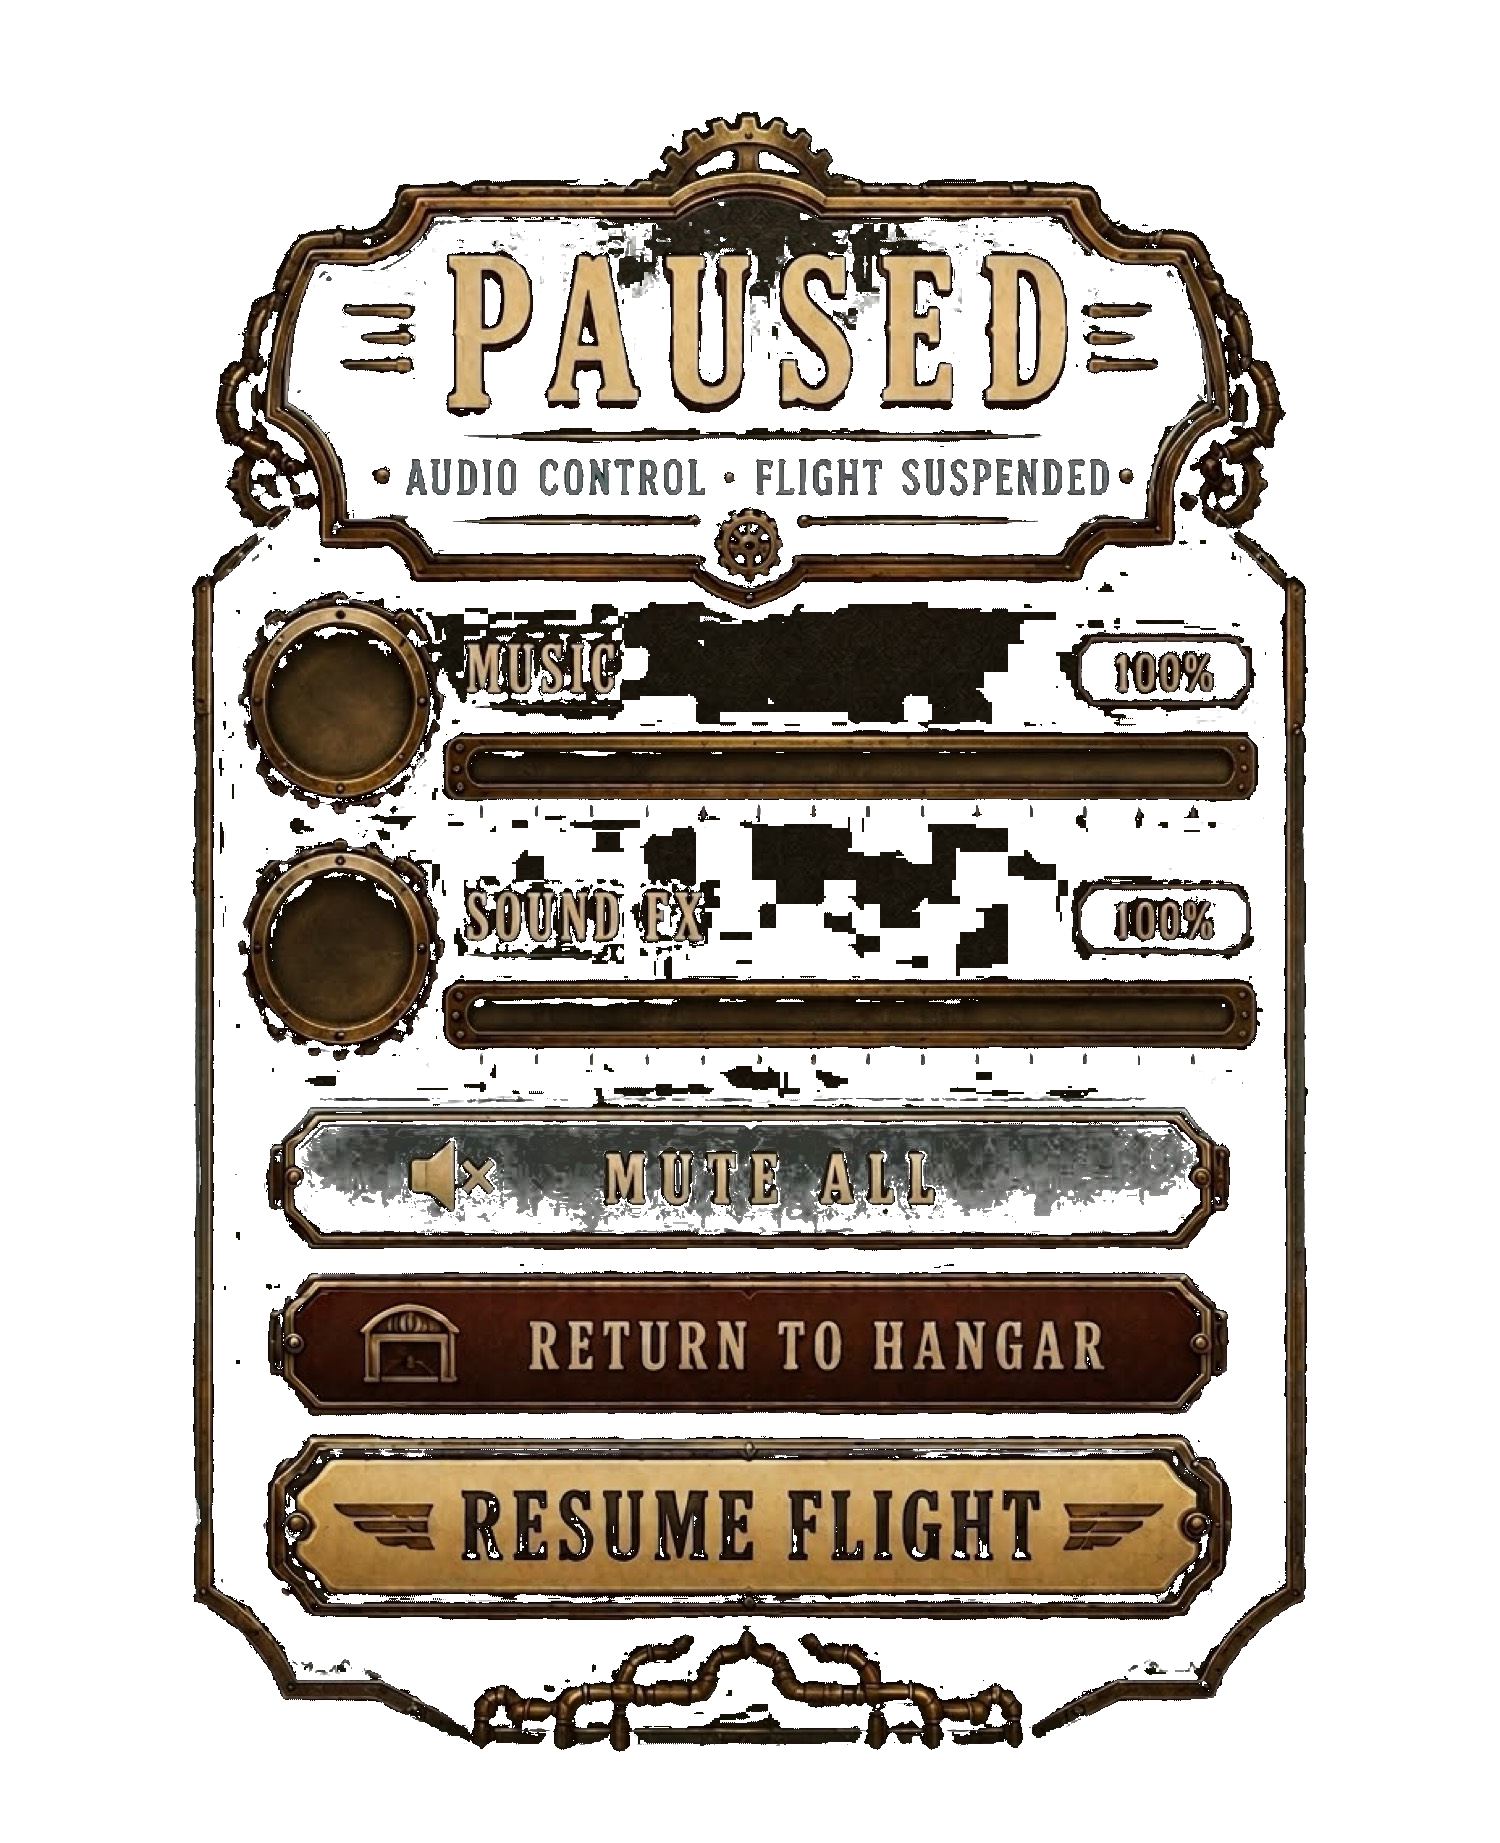
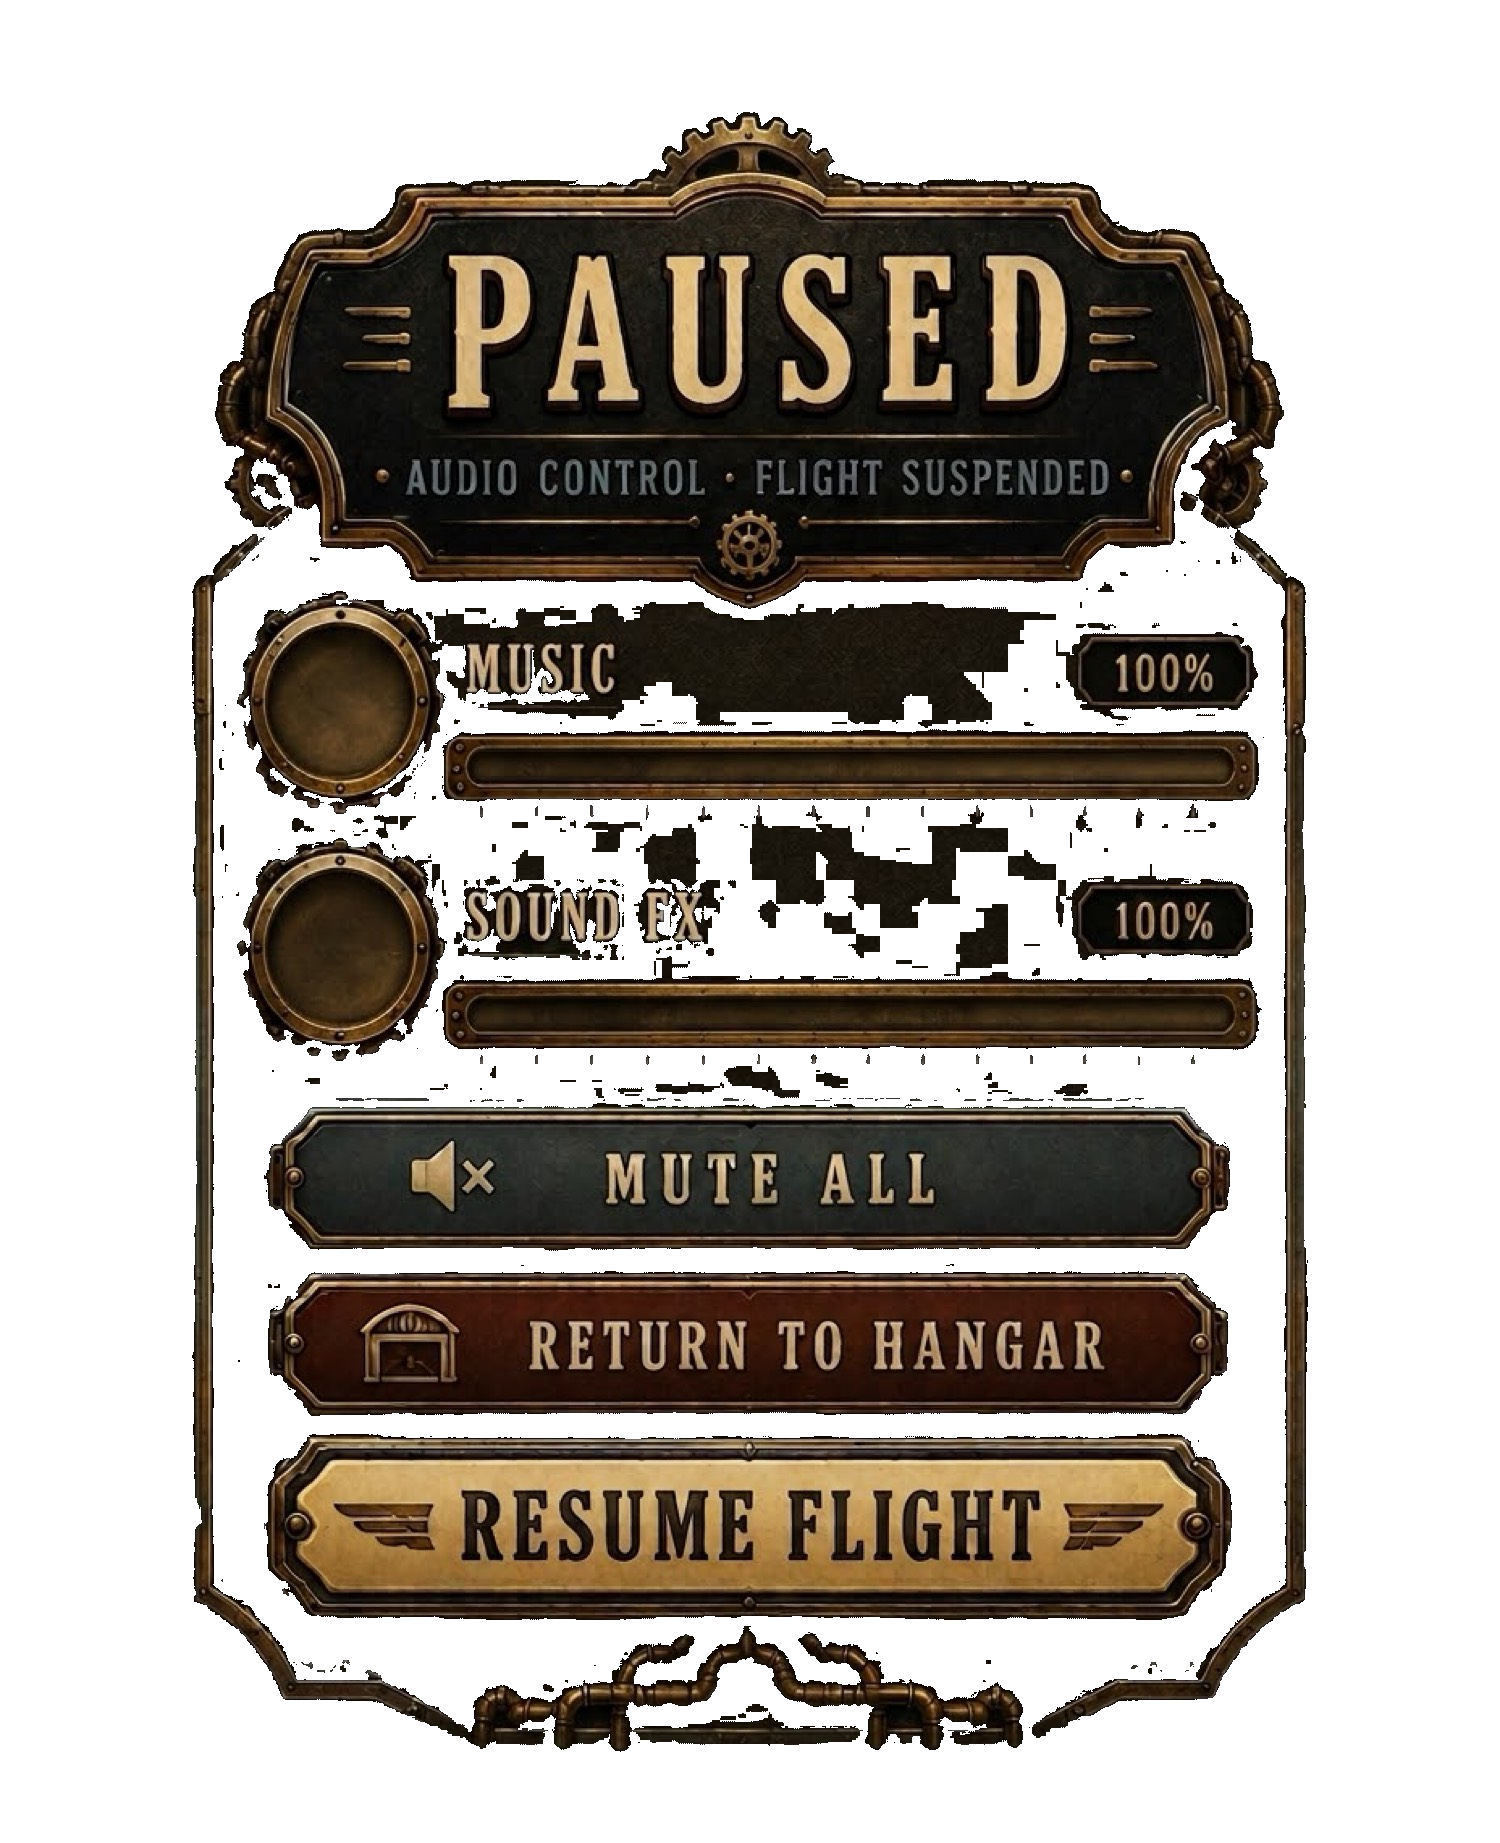
Add files via upload

diff --git a/menu-intro.js b/menu-intro.js
@@ -506,6 +506,10 @@ const SPLASH_MUSIC_VOL = 0.20; // 20%
 
 function startSplashMusic() {
   if (!splashMusic) return;
+  if (window.__airborneLeftSplash) {
+    try { stopSplashMusicImmediately(); } catch (e) {}
+    return;
+  }
   try {
     const isMuted = (typeof gameplayMusicMuted !== "undefined" && gameplayMusicMuted)
       || (typeof muted !== "undefined" && muted);
@@ -544,6 +548,43 @@ function stopSplashMusicImmediately() {
   if (!splashMusic) return;
   try { splashMusic.pause(); splashMusic.currentTime = 0; splashMusic.volume = 0; } catch (e) {}
 }
+
+// Pause all page music when the tab/app is backgrounded
+document.addEventListener("visibilitychange", function () {
+  try {
+    if (document.hidden) {
+      if (splashMusic && !splashMusic.paused) {
+        splashMusic.dataset.wasPlaying = "1";
+        splashMusic.pause();
+      }
+      if (menuMusic && !menuMusic.paused) {
+        menuMusic.dataset.wasPlaying = "1";
+        menuMusic.pause();
+      }
+      var gm = document.getElementById("gameplayMusic");
+      if (gm && !gm.paused) {
+        gm.dataset.wasPlaying = "1";
+        gm.pause();
+      }
+    } else {
+      // Resume only if we were playing before hide
+      if (!window.__airborneLeftSplash && splashMusic && splashMusic.dataset.wasPlaying === "1") {
+        splashMusic.dataset.wasPlaying = "";
+        startSplashMusic();
+      }
+      if (window.__airborneLeftSplash && menuMusic && menuMusic.dataset.wasPlaying === "1") {
+        menuMusic.dataset.wasPlaying = "";
+        startMenuMusic();
+      }
+      var gm2 = document.getElementById("gameplayMusic");
+      if (gm2 && gm2.dataset.wasPlaying === "1" && window.__airborneGameplayMusicEnabled) {
+        gm2.dataset.wasPlaying = "";
+        try { gm2.play(); } catch (e) {}
+      }
+    }
+  } catch (e) {}
+});
+
 
 // ---------- Menu background music — a real audio file, faded in/out at the
 // loop seam so restarting the track doesn't sound like a hard cut ----------
@@ -604,15 +645,26 @@ function stopMenuMusicImmediately() {
   menuMusic.pause();
   menuMusic.currentTime = 0;
 }
+window.stopSplashMusicImmediately = stopSplashMusicImmediately;
+window.startSplashMusic = startSplashMusic;
+window.startMenuMusic = startMenuMusic;
+window.stopMenuMusicImmediately = stopMenuMusicImmediately;
 
 // Splash music on load (menu music only after Enter Hangar)
 startSplashMusic();
 document.addEventListener("pointerdown", function unlockSplashOrMenu() {
+  if (window.__airborneLeftSplash) {
+    // Hangar / game — never restart splash track
+    try { stopSplashMusicImmediately(); } catch (e) {}
+    if (!menuMusicUnlocked) startMenuMusic();
+    return;
+  }
   var splash = document.getElementById("splashScreen");
   var onSplash = splash && !splash.classList.contains("hidden") && splash.style.display !== "none";
   if (onSplash) {
     if (!splashMusicUnlocked) startSplashMusic();
   } else {
+    try { stopSplashMusicImmediately(); } catch (e) {}
     if (!menuMusicUnlocked) startMenuMusic();
   }
 }, { passive: true });
@@ -628,14 +680,19 @@ window.__airborneShowMenu = () => {
   try { updateProfile(selectedBlimp); } catch (e) {}
 };
 
+window.__airborneLeftSplash = false;
+
 const splashEnterBtn = document.getElementById("splashEnterBtn");
 if (splashEnterBtn) {
   splashEnterBtn.addEventListener("click", () => {
     if (window.__airborneStopSplashRadar) window.__airborneStopSplashRadar();
+    window.__airborneLeftSplash = true;
     const s = document.getElementById("splashScreen");
-    s.classList.add("fade-out");
-    // Fade splash track, then start hangar menu music
+    if (s) s.classList.add("fade-out");
+    // Hard-stop splash audio immediately, then fade leftover volume if any
+    try { stopSplashMusicImmediately(); } catch (e) {}
     fadeOutSplashMusic(function () {
+      try { stopSplashMusicImmediately(); } catch (e) {}
       try {
         if (s) {
           s.classList.add("hidden");
@@ -644,14 +701,16 @@ if (splashEnterBtn) {
       } catch (e) {}
       startMenuMusic();
     });
-    setTimeout(() => {
+    // Safety: force-stop splash again after fade window
+    setTimeout(function () {
+      try { stopSplashMusicImmediately(); } catch (e) {}
       try {
         if (s) {
           s.classList.add("hidden");
           s.style.display = "none";
         }
       } catch (e) {}
-    }, 500);
+    }, 600);
   });
 }
 

diff --git a/index.html b/index.html
@@ -7,9 +7,9 @@
 <meta name="apple-mobile-web-app-status-bar-style" content="black-translucent" />
 <meta name="format-detection" content="telephone=no" />
 <title>Airborne Aces</title>
-<link rel="stylesheet" href="style.css?v=ruff267">
-<link rel="stylesheet" href="blimp-profile.css?v=ruff267">
-<link rel="stylesheet" href="launch-screens.css?v=ruff267">
+<link rel="stylesheet" href="style.css?v=ruff268">
+<link rel="stylesheet" href="blimp-profile.css?v=ruff268">
+<link rel="stylesheet" href="launch-screens.css?v=ruff268">
 <style id="otg-legacy-splash-hide">#splashScreen{visibility:hidden!important;pointer-events:none!important;}</style>
 </head>
 <body>
@@ -38,7 +38,7 @@
   <div class="otg-enter-wrap">
     <button class="otg-enter-btn" id="otg-enter-btn" type="button" aria-label="Enter Hangar">
     <span class="enterHangarShine" aria-hidden="true"></span>
-  <img class="enterHangarImg" src="enter_hangar_btn.png?v=ruff267" alt="Enter Hangar" draggable="false" />
+  <img class="enterHangarImg" src="enter_hangar_btn.png?v=ruff268" alt="Enter Hangar" draggable="false" />
   </button>
   </div>
   
@@ -107,7 +107,7 @@
   </div>
   <button class="enterHangarBtn" id="splashEnterBtn" type="button" aria-label="Enter Hangar">
   <span class="enterHangarShine" aria-hidden="true"></span>
-  <img class="enterHangarImg" src="enter_hangar_btn.png?v=ruff267" alt="Enter Hangar" draggable="false" />
+  <img class="enterHangarImg" src="enter_hangar_btn.png?v=ruff268" alt="Enter Hangar" draggable="false" />
 </button>
 </div>
 
@@ -279,7 +279,7 @@
 
 <div id="pauseOverlay" class="hidden" aria-hidden="true">
   <div class="pausePanel" role="dialog" aria-labelledby="pauseTitle">
-    <img class="pausePlateImg" src="pause_menu_plate.webp?v=ruff267" alt="" draggable="false" />
+    <img class="pausePlateImg" src="pause_menu_plate.webp?v=ruff268" alt="" draggable="false" />
     <div class="pauseHitLayer">
       <!-- visually hidden title for a11y; art shows PAUSED -->
       <h2 class="pauseTitle srOnly" id="pauseTitle">PAUSED</h2>
@@ -310,7 +310,7 @@
 </div>
 
 <div id="hudFrame">
-  <img id="hudFrameImg" crossorigin="anonymous" src="hudFrame.webp?v=ruff267" alt="" />
+  <img id="hudFrameImg" crossorigin="anonymous" src="hudFrame.webp?v=ruff268" alt="" />
 
   <div id="healthMeter">
     <img id="healthImg" crossorigin="anonymous" src="heartPickup.webp?cb=2" alt="Health" />
@@ -477,23 +477,23 @@
   </div>
 </div>
 
-<script src="assets-placeholders.js?v=ruff267"></script>
-<script src="blimp-profile.js?v=ruff267"></script>
-<script src="menu-intro.js?v=ruff267"></script>
-<script src="world-map.js?v=ruff267"></script>
-<script src="audio.js?v=ruff267"></script>
-<script src="asset-loading.js?v=ruff267"></script>
-<script src="ruff-tutorial.js?v=ruff267"></script>
-<script src="world-buildings.js?v=ruff267"></script>
-<script src="player-obstacles.js?v=ruff267"></script>
-<script src="power-fx.js?v=ruff267"></script>
-<script src="bosses.js?v=ruff267"></script>
-<script src="boss-dialogue.js?v=ruff267"></script>
-<script src="effects-combat.js?v=ruff267"></script>
-<script src="gamestate-ui.js?v=ruff267"></script>
-<script src="world-atmosphere.js?v=ruff267"></script>
-<script src="main-loop.js?v=ruff267"></script>
+<script src="assets-placeholders.js?v=ruff268"></script>
+<script src="blimp-profile.js?v=ruff268"></script>
+<script src="menu-intro.js?v=ruff268"></script>
+<script src="world-map.js?v=ruff268"></script>
+<script src="audio.js?v=ruff268"></script>
+<script src="asset-loading.js?v=ruff268"></script>
+<script src="ruff-tutorial.js?v=ruff268"></script>
+<script src="world-buildings.js?v=ruff268"></script>
+<script src="player-obstacles.js?v=ruff268"></script>
+<script src="power-fx.js?v=ruff268"></script>
+<script src="bosses.js?v=ruff268"></script>
+<script src="boss-dialogue.js?v=ruff268"></script>
+<script src="effects-combat.js?v=ruff268"></script>
+<script src="gamestate-ui.js?v=ruff268"></script>
+<script src="world-atmosphere.js?v=ruff268"></script>
+<script src="main-loop.js?v=ruff268"></script>
 
-<script src="launch-screens.js?v=ruff267"></script>
+<script src="launch-screens.js?v=ruff268"></script>
 </body>
 </html>

diff --git a/launch-screens.js b/launch-screens.js
@@ -149,6 +149,15 @@
     try {
       if (window.__airborneStopSplashRadar) window.__airborneStopSplashRadar();
     } catch (e) {}
+    // Stop splash track hard, then start hangar music
+    try { window.__airborneLeftSplash = true; } catch (e) {}
+    try {
+      var sm = document.getElementById('splashMusic');
+      if (sm) { sm.pause(); sm.currentTime = 0; sm.volume = 0; }
+    } catch (e) {}
+    try {
+      if (typeof stopSplashMusicImmediately === 'function') stopSplashMusicImmediately();
+    } catch (e) {}
     const oldSplash = document.getElementById('splashScreen');
     if (oldSplash) {
       oldSplash.classList.add('hidden');
@@ -166,6 +175,18 @@
     } catch (e) {
       console.warn('[OTG Launch] showMenu', e);
     }
+    // Start menu music after splash is gone
+    try {
+      if (typeof startMenuMusic === 'function') startMenuMusic();
+      else if (window.startMenuMusic) window.startMenuMusic();
+    } catch (e) {}
+    // Safety: kill splash audio again after a beat
+    setTimeout(function () {
+      try {
+        var sm2 = document.getElementById('splashMusic');
+        if (sm2) { sm2.pause(); sm2.currentTime = 0; sm2.volume = 0; }
+      } catch (e) {}
+    }, 100);
     console.log('[OTG Launch] Enter Hangar → menu / hangar');
   }
 

diff --git a/audio.js b/audio.js
@@ -758,6 +758,16 @@
     if (document.hidden) {
       musicWasPlayingBeforeHide = musicPlaying;
       if (musicPlaying) stopMusic();
+      // Pause HTML audio elements (menu / splash / gameplay) when leaving the tab
+      try {
+        ["menuMusic", "splashMusic", "gameplayMusic"].forEach(function (id) {
+          var el = document.getElementById(id);
+          if (el && !el.paused) {
+            el.dataset.wasPlaying = "1";
+            el.pause();
+          }
+        });
+      } catch (e) {}
       if (audioCtx && audioCtx.state === "running") {
         try { audioCtx.suspend(); } catch (e) {}
       }
